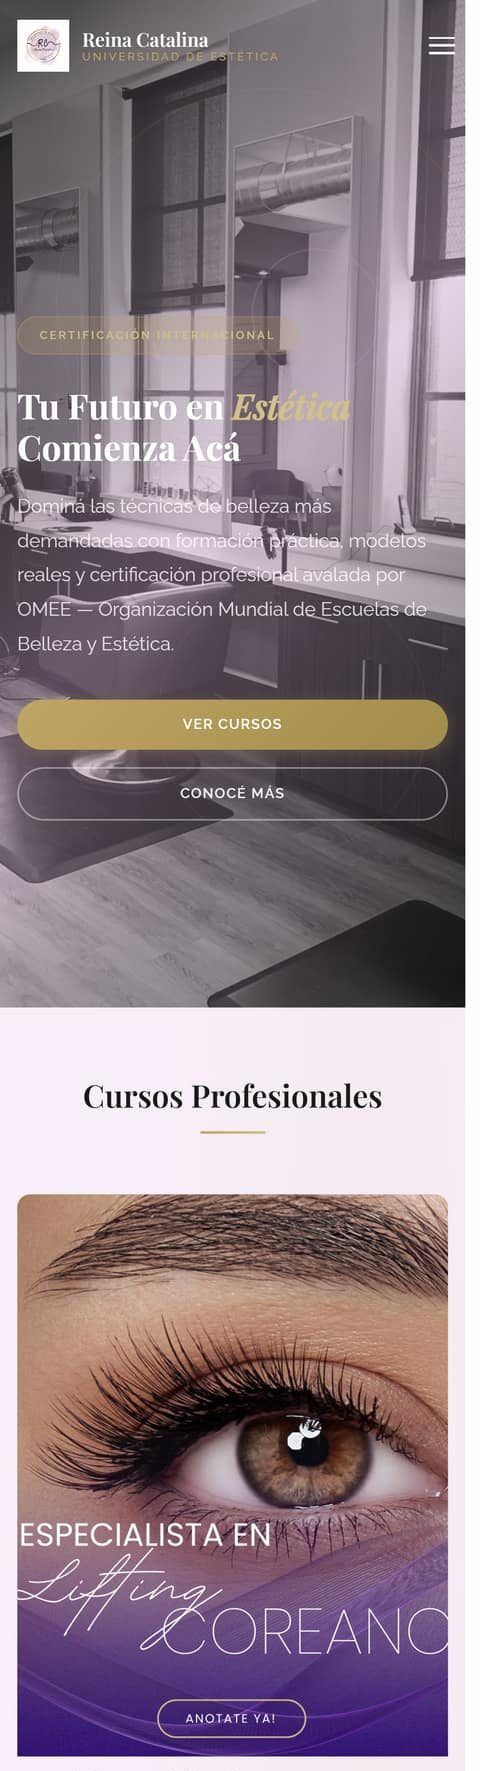
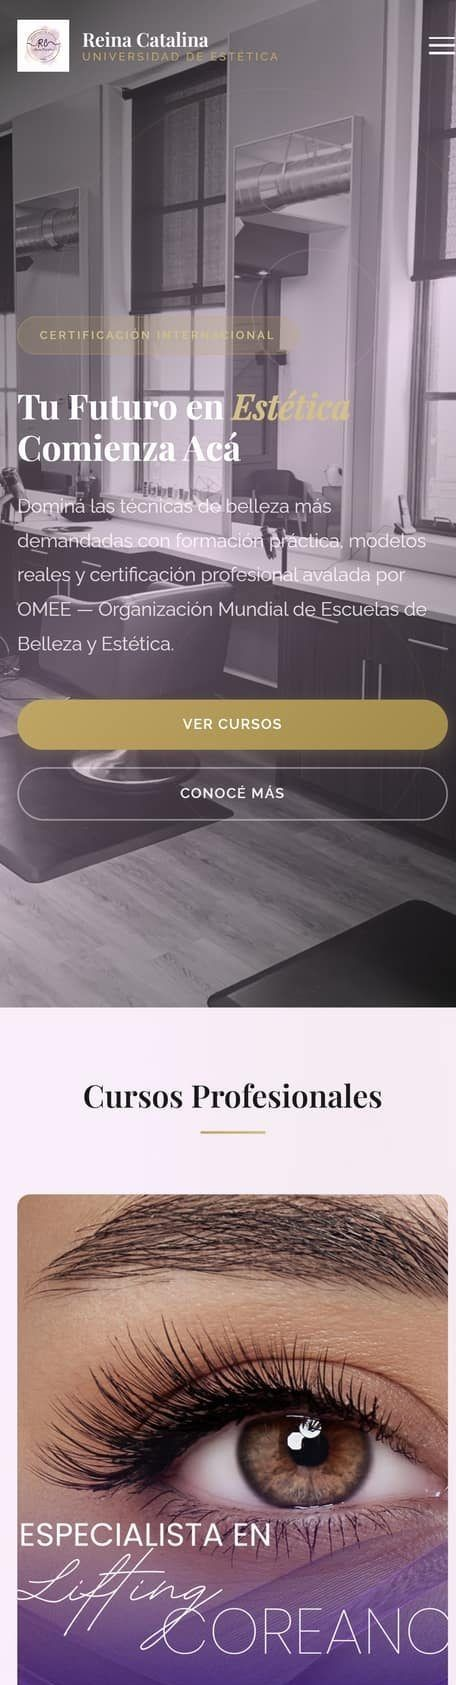
cambios

diff --git a/styles.css b/styles.css
@@ -2225,10 +2225,10 @@ section {
     }
     
     .hero {
-        padding-top: 110px;
+        padding-top: 25%;
         padding-bottom: 2rem;
         height: auto;
-        min-height: 100dvh;
+        min-height: 75vh;
         overflow: clip;
     }
     
